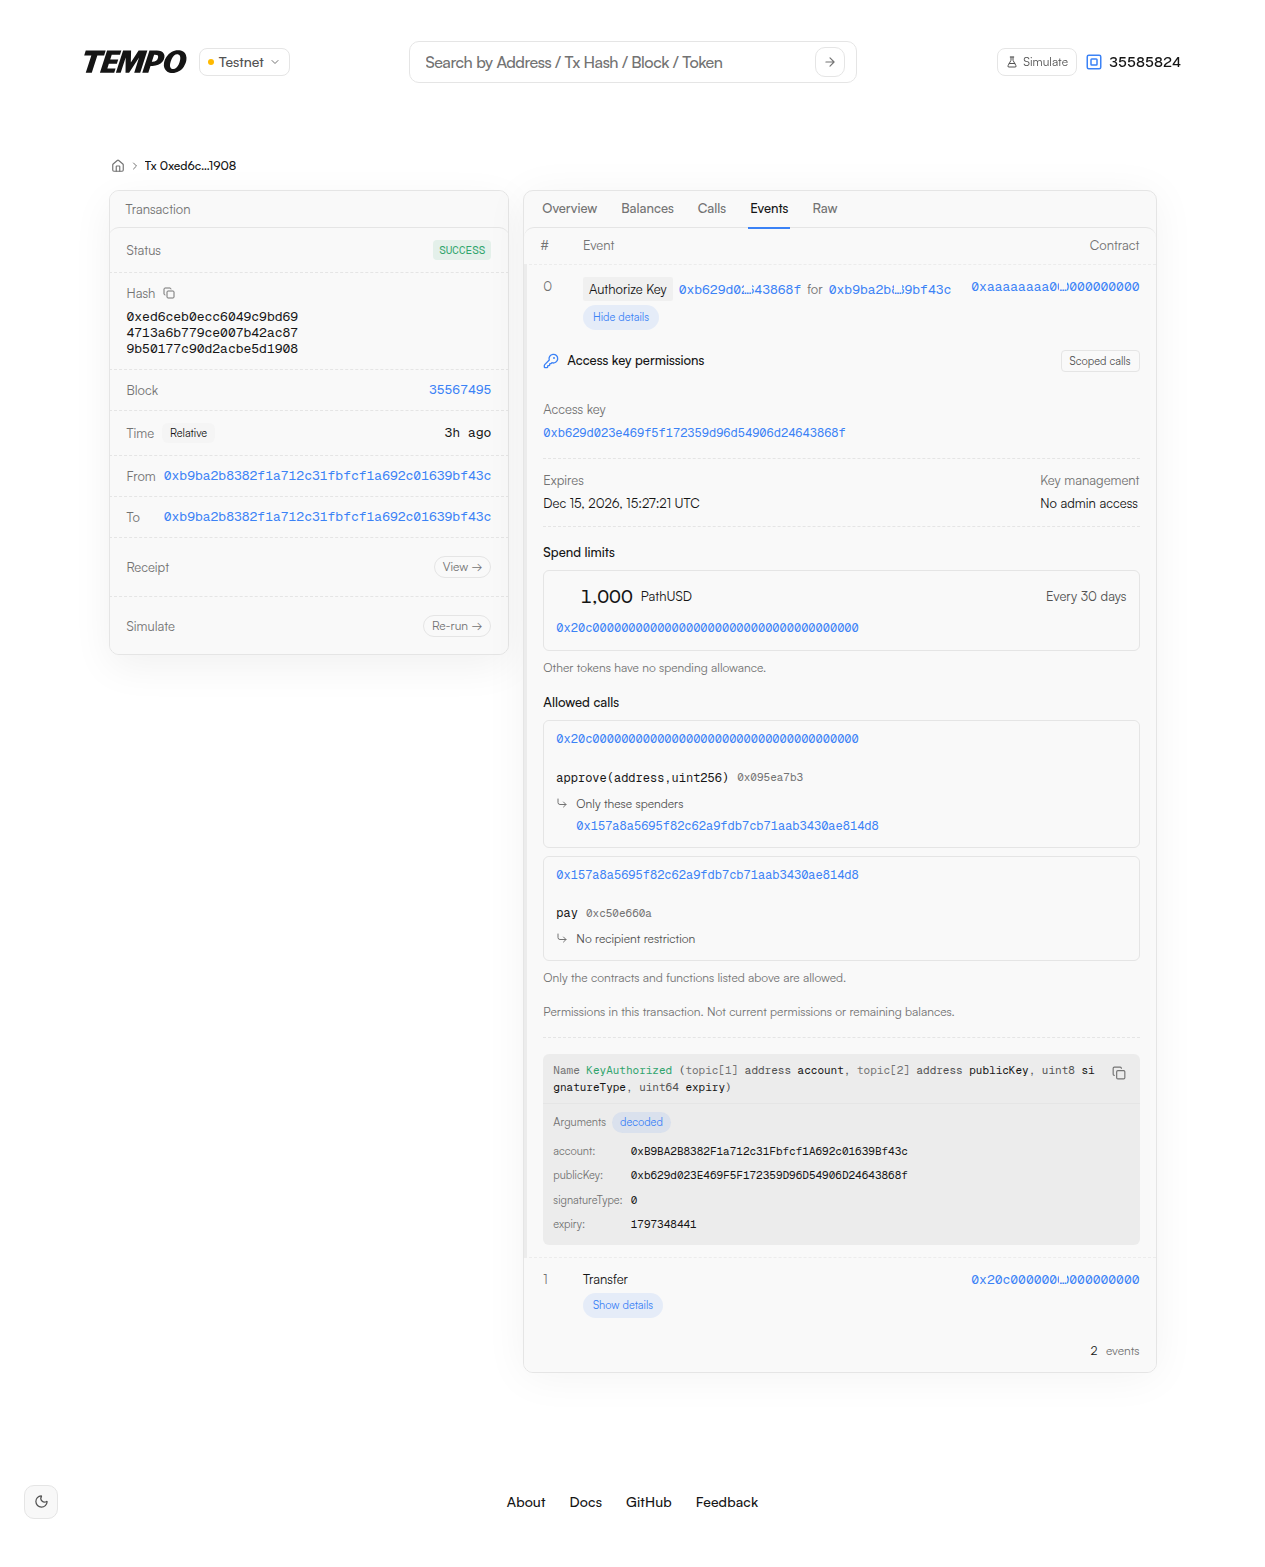
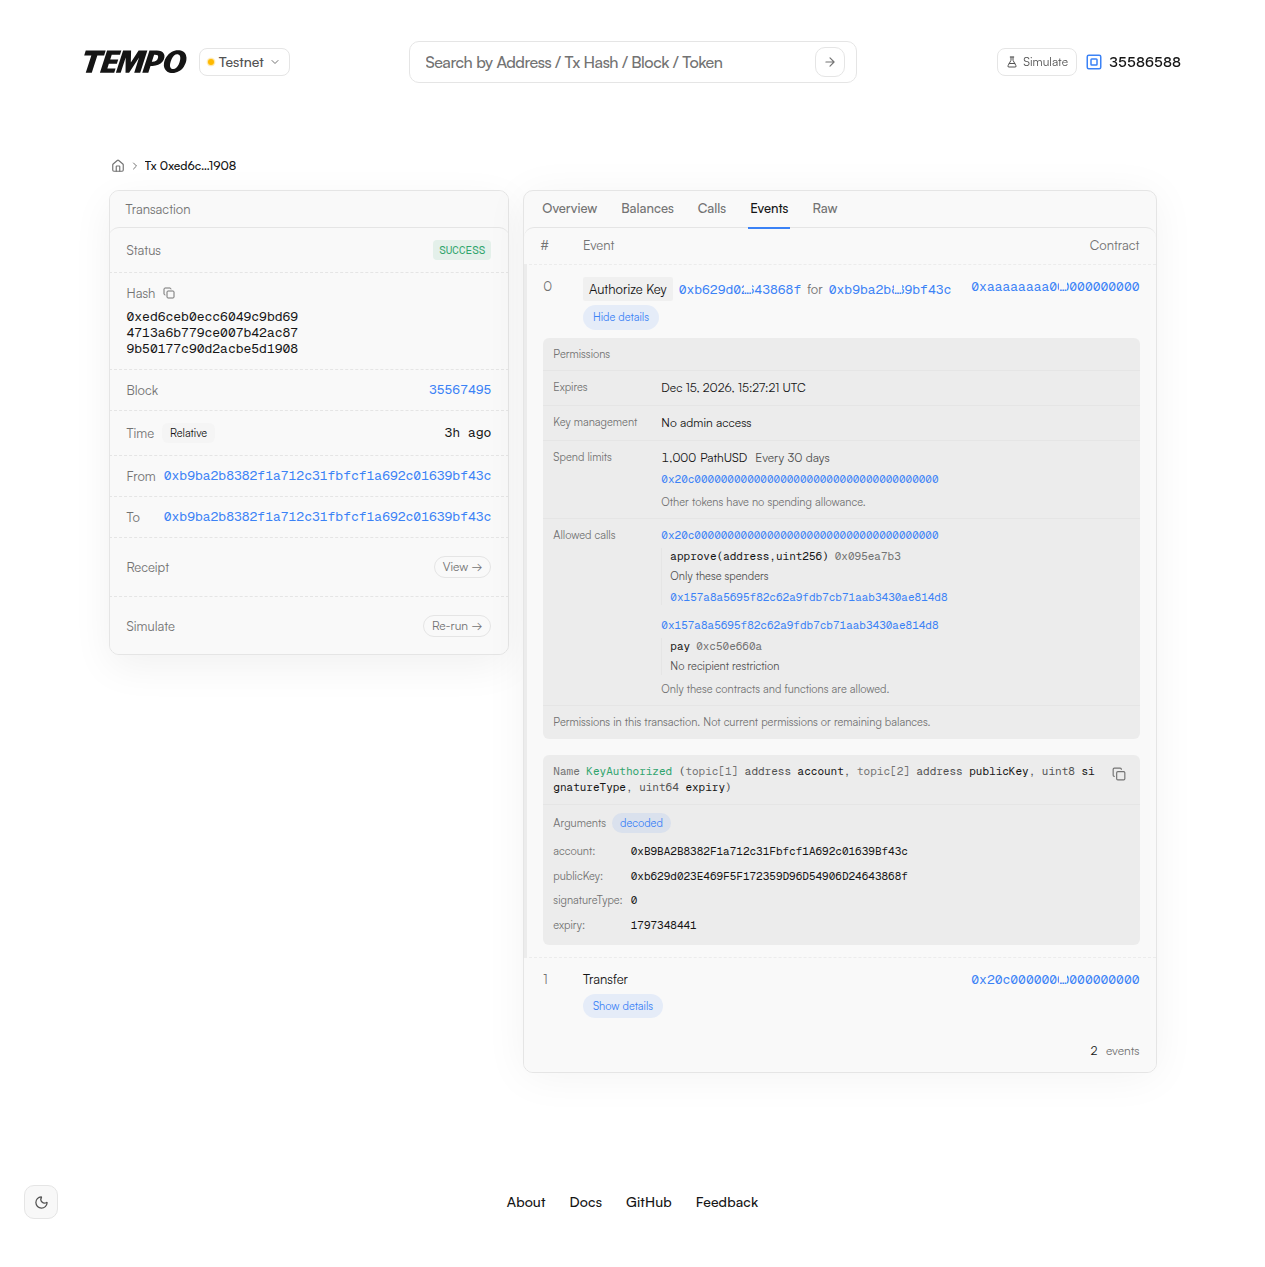
refactor(explorer): simplify access key details

diff --git a/apps/explorer/src/comps/TxKeyAuthorization.tsx b/apps/explorer/src/comps/TxKeyAuthorization.tsx
@@ -1,7 +1,6 @@
 import { Link } from '@tanstack/react-router'
 import { formatUnits, toFunctionSelector, toFunctionSignature } from 'viem'
 import { Hooks } from 'wagmi/tempo'
-import { TokenIcon } from '#comps/TokenIcon'
 import {
 	formatKeyExpiry,
 	formatKeyPeriod,
@@ -10,8 +9,6 @@ import {
 } from '#lib/domain/access-key'
 import { isTip20Address } from '#lib/domain/tip20'
 import { useAutoloadAbi } from '#lib/queries'
-import KeyRoundIcon from '~icons/lucide/key-round'
-import CornerDownRightIcon from '~icons/lucide/corner-down-right'
 
 const tokenFunctions: Record<string, string> = {
 	'0x095ea7b3': 'approve(address,uint256)',
@@ -27,38 +24,19 @@ export function TxKeyAuthorization(
 	return (
 		<section
 			aria-label="Access key permissions"
-			className="min-w-0 border-b border-dashed border-card-border pb-4 font-sans text-[13px]"
+			className="min-w-0 rounded-[6px] bg-distinct font-sans text-[12px] text-primary overflow-hidden"
 		>
-			<div className="flex flex-wrap items-center justify-between gap-2 py-3">
-				<h2 className="flex items-center gap-2 font-medium text-primary">
-					<KeyRoundIcon className="size-4 text-accent" />
-					Access key permissions
-				</h2>
-				<span className="rounded border border-card-border px-2 py-0.5 text-[11px] text-secondary">
-					{targets === undefined ? 'Unrestricted calls' : 'Scoped calls'}
-				</span>
-			</div>
-			<div className="flex flex-col gap-4 py-4">
-				<div className="flex flex-col gap-1">
-					<span className="text-tertiary">Access key</span>
-					<PermissionAddress address={authorization.address} />
-				</div>
-				<dl className="grid grid-cols-1 gap-3 border-y border-dashed border-card-border py-3 min-[600px]:grid-cols-[1fr_auto]">
-					<div>
-						<dt className="text-tertiary">Expires</dt>
-						<dd className="mt-1 text-primary">
-							{formatKeyExpiry(authorization.expiry)}
-						</dd>
-					</div>
-					<div>
-						<dt className="text-tertiary">Key management</dt>
-						<dd className="mt-1 text-primary">
-							{authorization.isAdmin ? 'Admin access' : 'No admin access'}
-						</dd>
-					</div>
-				</dl>
-				<div className="flex flex-col gap-2">
-					<h3 className="font-medium text-primary">Spend limits</h3>
+			<h2 className="border-b border-card-border px-[10px] py-[8px] text-[11px] text-tertiary">
+				Permissions
+			</h2>
+			<dl className="divide-y divide-card-border">
+				<PermissionRow label="Expires">
+					{formatKeyExpiry(authorization.expiry)}
+				</PermissionRow>
+				<PermissionRow label="Key management">
+					{authorization.isAdmin ? 'Admin access' : 'No admin access'}
+				</PermissionRow>
+				<PermissionRow label="Spend limits">
 					{authorization.limits === undefined ? (
 						<p className="text-secondary">No token spending limits</p>
 					) : authorization.limits.length === 0 ? (
@@ -72,14 +50,13 @@ export function TxKeyAuthorization(
 									metadata={tokenMetadata?.[limit.token.toLowerCase()]}
 								/>
 							))}
-							<p className="text-[12px] text-tertiary">
+							<p className="text-[11px] text-tertiary">
 								Other tokens have no spending allowance.
 							</p>
 						</>
 					)}
-				</div>
-				<div className="flex flex-col gap-2">
-					<h3 className="font-medium text-primary">Allowed calls</h3>
+				</PermissionRow>
+				<PermissionRow label="Allowed calls">
 					{targets === undefined ? (
 						<p className="text-secondary">
 							Any contract and function, subject to protocol restrictions.
@@ -88,21 +65,36 @@ export function TxKeyAuthorization(
 						<p className="text-secondary">No calls allowed</p>
 					) : (
 						<>
-							{targets.map((target) => (
-								<CallScope key={target.address} target={target} />
-							))}
-							<p className="text-[12px] text-tertiary">
-								Only the contracts and functions listed above are allowed.
+							<ul className="flex flex-col gap-[12px]">
+								{targets.map((target) => (
+									<CallScope key={target.address} target={target} />
+								))}
+							</ul>
+							<p className="text-[11px] text-tertiary">
+								Only these contracts and functions are allowed.
 							</p>
 						</>
 					)}
-				</div>
-			</div>
-			<p className="text-[12px] text-tertiary">
+				</PermissionRow>
+			</dl>
+			<p className="border-t border-card-border px-[10px] py-[8px] text-[11px] text-tertiary">
 				Permissions in this transaction. Not current permissions or remaining
 				balances.
 			</p>
 		</section>
+	)
+}
+
+// Match the compact label/value rows in decoded event and calldata details.
+function PermissionRow(props: {
+	label: string
+	children: React.ReactNode
+}): React.JSX.Element {
+	return (
+		<div className="grid grid-cols-1 gap-[4px] px-[10px] py-[8px] min-[600px]:grid-cols-[100px_minmax(0,1fr)] min-[600px]:gap-[8px]">
+			<dt className="text-[11px] text-tertiary">{props.label}</dt>
+			<dd className="flex min-w-0 flex-col gap-[6px]">{props.children}</dd>
+		</div>
 	)
 }
 
@@ -122,7 +114,7 @@ function PermissionAddress(props: {
 		<Link
 			to="/address/$address"
 			params={{ address: props.address }}
-			className="break-all font-mono text-[12px] text-accent hover:underline"
+			className="break-all font-mono text-[11px] text-accent hover:underline"
 		>
 			{props.address}
 		</Link>
@@ -146,20 +138,15 @@ function SpendingLimit(props: {
 	const [integer, fraction] = amount.split('.')
 	const formatted = `${BigInt(integer).toLocaleString('en-US')}${fraction ? `.${fraction}` : ''}`
 	return (
-		<div className="rounded-[6px] border border-card-border bg-card-header px-3 py-3">
-			<div className="flex flex-wrap items-center justify-between gap-2">
-				<div className="flex min-w-0 flex-wrap items-center gap-2 text-primary">
-					<TokenIcon address={limit.token} name={metadata?.symbol} />
-					<span className="break-all text-[18px] font-medium tabular-nums">
-						{formatted}
-					</span>
+		<div className="flex min-w-0 flex-col gap-[4px]">
+			<div className="flex flex-wrap items-baseline gap-x-[8px] gap-y-[2px]">
+				<div className="flex min-w-0 flex-wrap items-baseline gap-[4px]">
+					<span className="break-all tabular-nums">{formatted}</span>
 					<span>{metadata?.symbol ?? 'base units'}</span>
 				</div>
 				<span className="text-secondary">{formatKeyPeriod(limit.period)}</span>
 			</div>
-			<div className="mt-2">
-				<PermissionAddress address={limit.token} />
-			</div>
+			<PermissionAddress address={limit.token} />
 		</div>
 	)
 }
@@ -173,11 +160,9 @@ function CallScope(props: {
 		enabled: true,
 	})
 	return (
-		<div className="min-w-0 rounded-[6px] border border-card-border">
-			<div className="rounded-t-[6px] bg-card-header px-3 py-2">
-				<PermissionAddress address={target.address} />
-			</div>
-			<ul className="divide-y divide-dashed divide-card-border px-3">
+		<li className="flex min-w-0 flex-col gap-[4px]">
+			<PermissionAddress address={target.address} />
+			<ul className="flex flex-col gap-[8px] border-l border-card-border pl-[8px]">
 				{target.rules.map((rule, index) => {
 					const selector = rule.selector?.toLowerCase()
 					const abiFunction = abi?.find(
@@ -194,11 +179,11 @@ function CallScope(props: {
 					return (
 						<li
 							key={`${rule.selector}-${index}`}
-							className="flex flex-col gap-2 py-3"
+							className="flex min-w-0 flex-col gap-[4px]"
 						>
-							<div className="flex flex-wrap items-center gap-2 text-primary">
+							<div className="flex flex-wrap items-baseline gap-x-[6px] gap-y-[2px]">
 								<code
-									className="break-all text-[12px]"
+									className="break-all text-[11px]"
 									title={
 										abiFunction?.type === 'function'
 											? toFunctionSignature(abiFunction)
@@ -218,8 +203,7 @@ function CallScope(props: {
 									</span>
 								)}
 							</div>
-							<div className="flex items-start gap-2 text-[12px] text-secondary">
-								<CornerDownRightIcon className="mt-0.5 size-3 shrink-0 text-tertiary" />
+							<div className="text-[11px] text-secondary">
 								{rule.recipients?.length ? (
 									<div className="flex min-w-0 flex-col gap-1">
 										<span>
@@ -239,6 +223,6 @@ function CallScope(props: {
 					)
 				})}
 			</ul>
-		</div>
+		</li>
 	)
 }

diff --git a/apps/explorer/test/access-key.node.test.ts b/apps/explorer/test/access-key.node.test.ts
@@ -32,7 +32,6 @@ vi.mock('@tanstack/react-router', () => ({
 vi.mock('wagmi/tempo', () => ({
 	Hooks: { token: { useGetMetadata: () => ({ data: metadata.current }) } },
 }))
-vi.mock('#comps/TokenIcon', () => ({ TokenIcon: () => null }))
 vi.mock('#lib/queries', () => ({ useAutoloadAbi: () => ({ data: undefined }) }))
 vi.mock('#lib/domain/tip20', () => ({
 	isTip20Address: (address: string) => address.startsWith('0x20c'),
@@ -63,6 +62,22 @@ function render(overrides: Partial<KeyAuthorization> = {}) {
 }
 
 describe('access key permissions', () => {
+	it('uses labelled detail rows without repeating the event identity or a status badge', () => {
+		const html = render()
+		for (const label of [
+			'Expires',
+			'Key management',
+			'Spend limits',
+			'Allowed calls',
+		])
+			expect(html).toMatch(new RegExp(`<dt[^>]*>${label}</dt>`))
+		expect(html).not.toContain(authorization.address)
+		expect(html).not.toContain('Scoped calls')
+		expect(html).not.toContain('<h3')
+		expect(html).toContain('Other tokens have no spending allowance')
+		expect(html).toContain('Only these contracts and functions are allowed')
+	})
+
 	it('matches only the keychain authorization for the envelope account and key', () => {
 		const account = '0xb9ba2b8382f1a712c31fbfcf1a692c01639bf43c'
 		const topics = encodeEventTopics({
